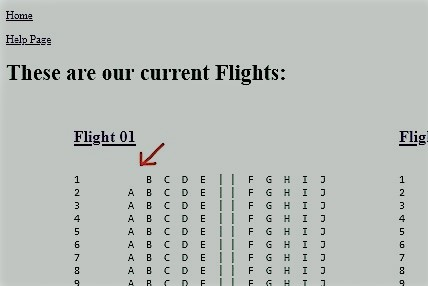
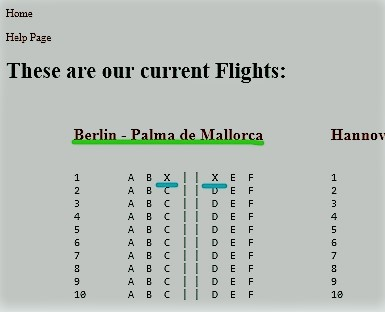
Final Help Page

diff --git a/project/boeing/templates/help.html b/project/boeing/templates/help.html
@@ -16,15 +16,15 @@
 <h1>How can I help you {{ username }}?</h1>
 <br><br>
 
-<!-- These are the paragraphs for all webpages; each has an id for precise accessibility, a picture and further information and links-->
+<!-- These are the paragraphs for all webpages; each has an id for precise accessibility, a picture and further information with links-->
 <div id="not_logged_in">
 <h2>Homepage (but not logged in):</h2>
 <img src="{% static 'not_logged_in3.jpg' %}" alt="picture of the home page (not logged in)"/>
 <ul style="font-size: 15px;">
-    <li>If you already have an account, click <a href="{% url 'login' %}">here</a> to log in <strong>or</strong> go to <a href="{% url 'home' %}">Home</a> and click 'Log In' (orange)</li>
-    <li>If you don't have an account, click <a href="{% url 'signup' %}">here</a> to sign up <strong>or</strong> go to <a href="{% url 'home' %}">Home</a> and click 'Sign UP' (green)</li>
+    <li>If you already have an account, click <a href="{% url 'login' %}">Log In</a> to log in <strong>or</strong> go to <a href="{% url 'home' %}">Home</a> and click 'Log In' (blue)</li>
+    <li>If you don't have an account, click <a href="{% url 'signup' %}">Sign Up</a> to sign up <strong>or</strong> go to <a href="{% url 'home' %}">Home</a> and click 'Sign UP' (orange)</li>
     <li>If you only want to get an overview over the available planes and seats, but don't wish to reserve any seats,
-        click <a href="{% url 'overview' %}">here</a> <strong>or</strong> go to <a href="{% url 'home' %}">Home</a> and click 'Go to overview anyways' (purple)</li>
+        click <a href="{% url 'overview' %}">Overview</a> <strong>or</strong> go to <a href="{% url 'home' %}">Home</a> and click 'Our current flights' (purple)</li>
 </ul>
 </div>
 <br><br>
@@ -34,7 +34,7 @@
 <img src="{% static 'home.jpg' %}" alt="picture of the home page"/>
 <ul style="font-size: 15px;">
     <li>If you want to reserve seats, click <a href="{% url 'overview' %}">here</a> <strong>or</strong> go to <a href="{% url 'home' %}">Home</a> and click 'Our current flights' (orange)</li>
-    <li>If you want to cancel reserved seats, go to <a href="{% url 'home' %}">Home</a>, then click on the boxes of those seats (blue) to select them and click 'Cancel to checked' (purple)</li>
+    <li>If you want to cancel reserved seats, go to <a href="{% url 'home' %}">Home</a>, then click on the boxes of those seats (purple) to select them and click 'Cancel to checked' (green)</li>
 </ul>
 </div>
 <br><br>
@@ -43,8 +43,8 @@
 <h2>Overview:</h2>
 <img src="{% static 'overview.jpg' %}" alt="picture of the overview page">
 <ul style="font-size: 15px;">
-    <li>This page shows available seats: Seat 1A is no longer available in this example (red arrow), but all the others are</li>
-    <li>If you want to reserve a seat now, you may go back to <a href="{% url 'overview' %}">Overview</a> and click on one of the flights (e.g. Flight 01); <strong>this will only work, while you are logged in</strong></li>
+    <li>This page shows available seats: Seat C1 and D1 are no longer available in this example (blue), but all the others are</li>
+    <li>If you want to reserve a seat now, you may go back to <a href="{% url 'overview' %}">Overview</a> and click on one of the flights (e.g. "Berlin-Palma de Mallorca", green); <strong>this will only work, while you are logged in</strong></li>
     <li>If you aren't logged in and want to change that, go to <a href="{% url 'login' %}">Log In</a></li>
 </ul>
 </div>
@@ -52,11 +52,14 @@
 
 <div id="flight">
 <h2>Flight/ seat reservation:</h2>
-<img src="{% static 'Flight3.jpg' %}" alt="picture of seat reservation"><img src="{% static 'Flight_Submit.jpg' %}" alt="picture of the submit button for seat reservation">
+<img src="{% static 'Flight3.jpg' %}" alt="picture, that explains reserved seats">
+<img src="{% static 'Flight_Submit2.jpg' %}" alt="picture, that explains how to submit chosen seats in order to reserve">
+
 <ul style="font-size: 15px;">
     <li>This is the page for seat reservation</li>
-    <li>To select a seat, click on it (orange)</li>
-    <li>Afterwards, you may either select more seats, or click the 'submit'-button (green) to reserve the selected seat(s)</li>
+    <li>Seats with an X are not available (green)</li>
+    <li>To select a seat, click on it. It will turn black (orange)</li>
+    <li>Afterwards, you may either select more seats, or click the 'submit'-button (purple) to reserve the selected seat(s)</li>
     <li>Click <a href="{% url 'overview' %}">here</a> to return to the overview page</li>
 </ul>
 </div>
@@ -66,21 +69,23 @@
 <h2>Flight/ seat reservation (not available without login):</h2>
 <img src="{% static 'flight_anyways2.png' %}" alt="picture of a plane, no seats showing">
 <ul style="font-size: 15px;">
-    <li>Click <a href="{% url 'login' %}">here</a> to log in</li>
-    <li>Or click <a href="{% url 'home' %}">here</a> to return to the homepage</li>
+    <li>Click <a href="{% url 'login' %}">Login</a> to log in</li>
+    <li>Or click <a href="{% url 'home' %}">Home</a> to return to the homepage</li>
 </ul>
 </div>
+
+<!-- The only purpose of these linebreaks is better readability of the last paragraph -->
 <br><br>
-    <br><br>
-    <br><br>
-    <br><br>
-    <br><br>
-    <br><br>
-    <br><br>
-    <br><br>
-    <br><br>
-    <br><br>
-    <br><br>
-    <br><br>
+<br><br>
+<br><br>
+<br><br>
+<br><br>
+<br><br>
+<br><br>
+<br><br>
+<br><br>
+<br><br>
+<br><br>
+<br><br>
 
 {% endblock %}

diff --git a/project/boeing/templates/registration/emailconfirmation.html b/project/boeing/templates/registration/emailconfirmation.html
@@ -15,4 +15,6 @@
     <button type="submit">Sign Up</button>
   </form>
 <h3 style="color: crimson">{{ error }}</h3>
+
+<p style="font-size:15px">Help: Check your E-Mail-Account and insert the received code in the window above.</p>
 {% endblock %}
